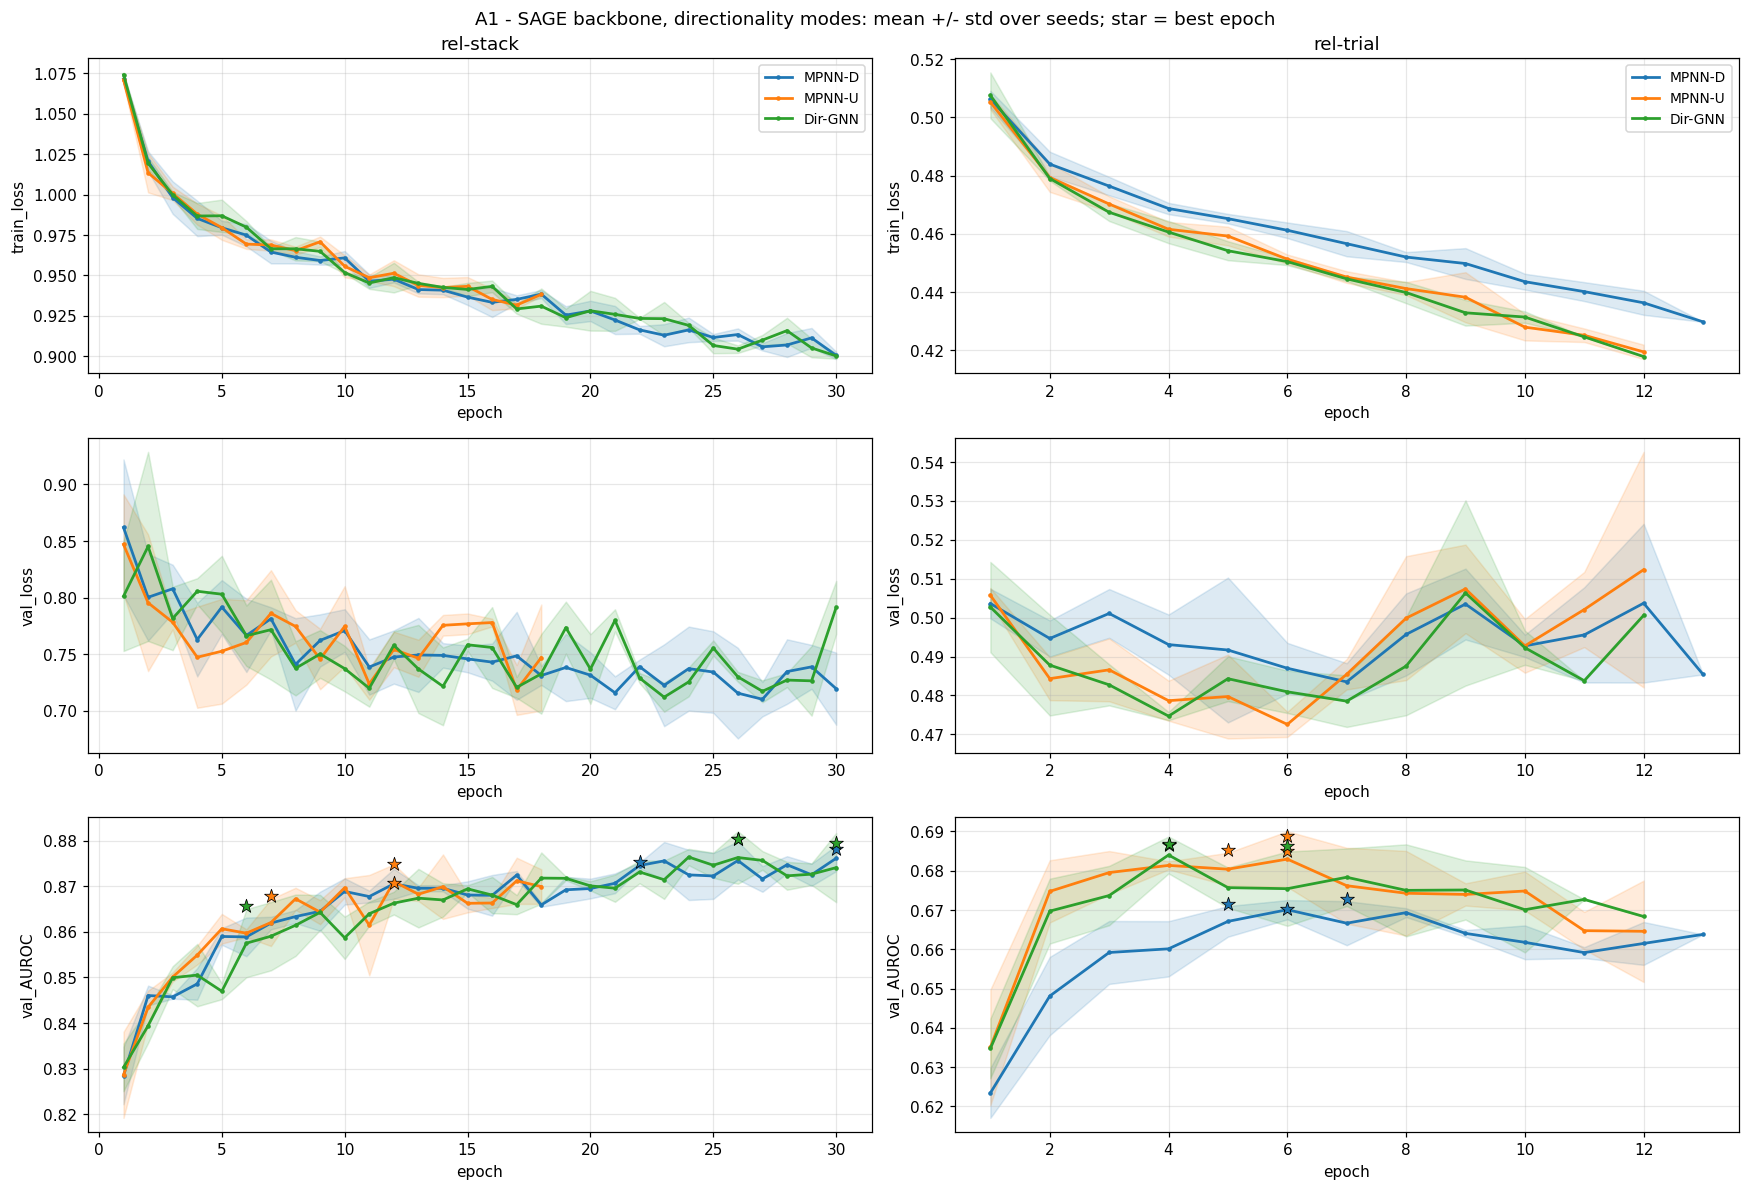
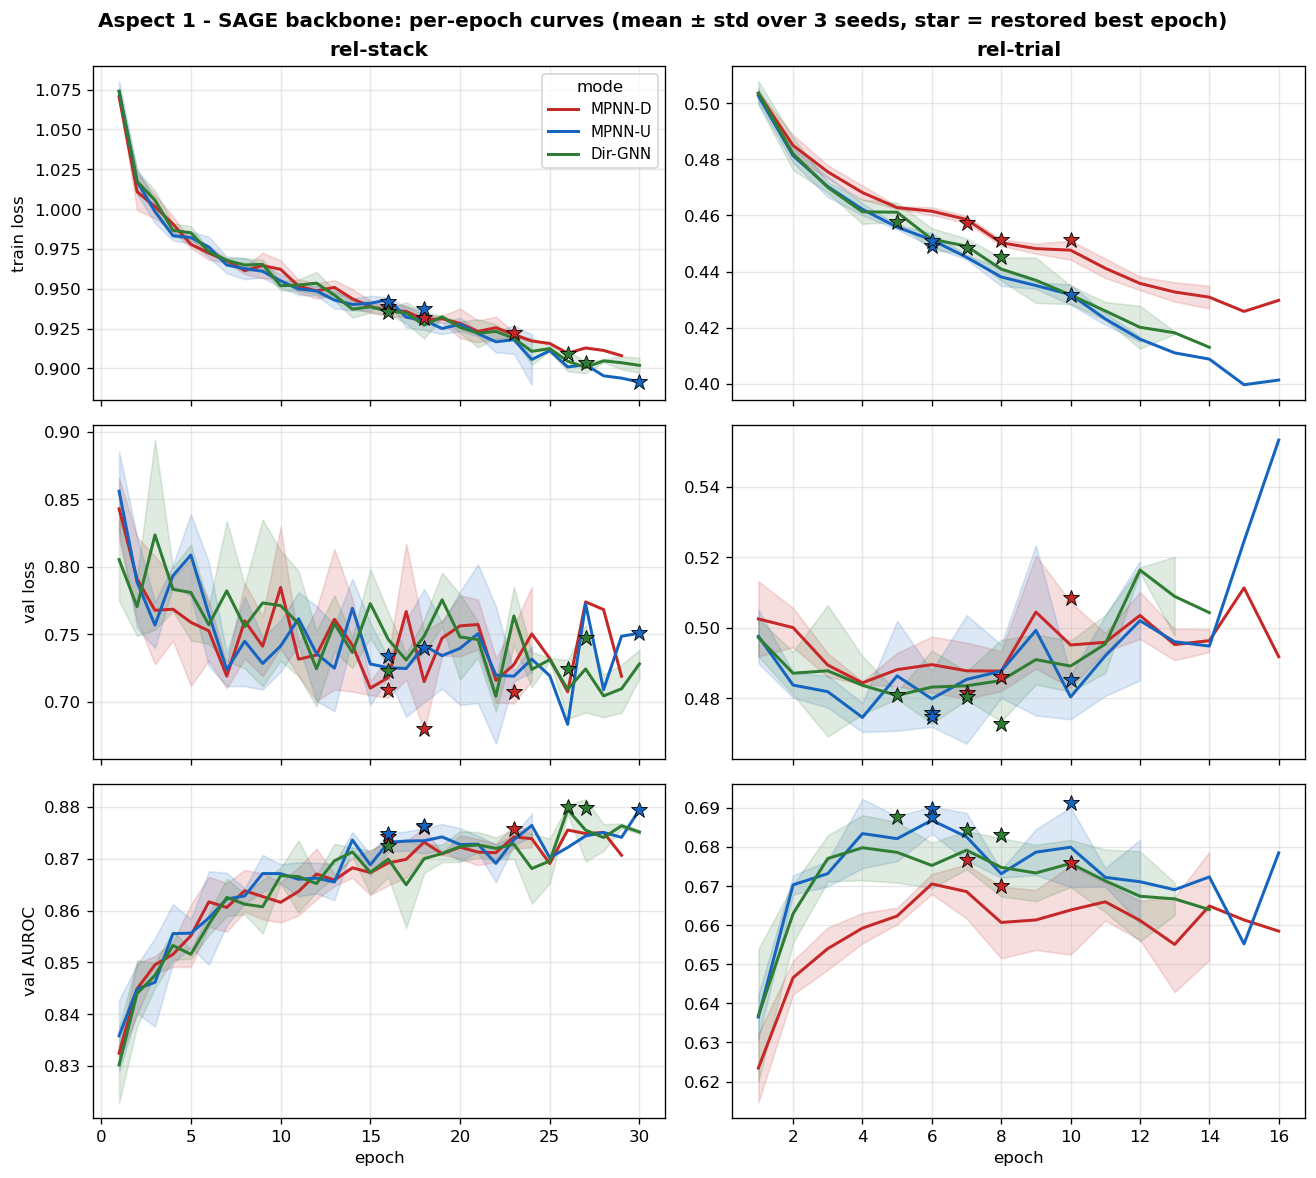
rewrote report 1 with the new results

Changed region(s): [[0.0, 0.0, 0.997, 1.0], [0.0312, 0.5806, 0.0623, 0.6112]]

diff --git a/hw3/report.md b/hw3/report.md
@@ -105,7 +105,7 @@ Picking up from Section 2's shared steps 1-2: a `NeighborLoader` samples a 2-hop
 
 ### 3.3 Comparison Design
 
-Layers, hidden size, fan-out (128 neighbors/layer/edge-type), encoders, and head are identical across all six variants; only the directionality mode and backbone change. In code, MPNN-U ties each reverse edge type's convolution to the *same module object* as its forward counterpart (`convs[e] = rel2conv[e[1][len("rev_"):]]`), so its message-passing weight count is identical to MPNN-D's by construction, not approximately similar - confirmed directly by the logged parameter counts, which match exactly between MPNN-D and MPNN-U in every one of the 12 backbone/dataset cells (e.g. rel-stack SAGE: 3,033,985 for both; rel-trial GAT: 10,266,113 for both). Dir-GNN's message-passing weights are exactly double, since every edge type gets its own, independently initialized module. At the *total* parameter level the ratio is smaller than 2x (1.13-1.56x across the four backbone/dataset combinations - see Table 1), because the shared `HeteroEncoder` contributes a fixed, mode-independent chunk of parameters that dilutes the doubling. We report all parameter counts directly rather than running a separate parameter-matched control, since Table 1 shows Dir-GNN's extra capacity never produces the outright best result on any backbone/dataset pair.
+Layers, hidden size, fan-out (128 neighbors/layer/edge-type), encoders, and head are identical across all six variants; only the directionality mode and backbone change. In code, MPNN-U ties each reverse edge type's convolution to the *same module object* as its forward counterpart (`convs[e] = rel2conv[e[1][len("rev_"):]]`), so its message-passing weight count is identical to MPNN-D's by construction - confirmed by the logged parameter counts, which match exactly between MPNN-D and MPNN-U in every backbone/dataset cell. Dir-GNN's message-passing weights are exactly double, since every edge type gets its own, independently initialized module; at the *total* parameter level the ratio is smaller (1.14-1.56x across the four backbone/dataset combinations - see Table 1), because the shared `HeteroEncoder` is a fixed, mode-independent chunk that dilutes the doubling. We report parameter counts directly rather than running a parameter-matched control, since Table 1 shows Dir-GNN's extra capacity never produces the outright best result on any backbone/dataset pair.
 
 ### 3.4 Experimental Setup
 
@@ -113,29 +113,31 @@ rel-stack and rel-trial, both under the global protocol (Section 2): 30-epoch bu
 
 ### 3.5 Results
 
+Headline metric is held-out **test** AUROC (`task.evaluate`, Section 2); the validation AUROC used for early stopping is shown alongside. Bold marks the best mode per backbone.
+
 **Table 1a - rel-stack**
 
-| backbone | mode | AUROC | AUPRC | precision | recall | params |
-|---|---|---|---|---|---|---|
-| SAGE | MPNN-D | **0.8778 ± .0025** | 0.3064 | 0.352 | 0.342 | 3.03M |
-| SAGE | MPNN-U | 0.8712 ± .0036 | 0.2826 | 0.324 | 0.347 | 3.03M |
-| SAGE | Dir-GNN | 0.8751 ± .0082 | 0.3028 | 0.327 | 0.357 | 3.76M |
-| GAT | MPNN-D | **0.8742 ± .0079** | 0.3121 | 0.342 | 0.362 | 5.22M |
-| GAT | MPNN-U | 0.8721 ± .0021 | 0.3083 | 0.333 | 0.372 | 5.22M |
-| GAT | Dir-GNN | 0.8633 ± .0050 | 0.2854 | 0.336 | 0.326 | 8.13M |
+| backbone | mode | test AUROC | test AUPRC | val AUROC | params |
+|---|---|---|---|---|---|
+| SAGE | MPNN-D | 0.8781 ± .0008 | 0.295 | 0.8754 | 3.03M |
+| SAGE | MPNN-U | **0.8803 ± .0028** | 0.295 | 0.8769 | 3.03M |
+| SAGE | Dir-GNN | 0.8788 ± .0023 | 0.294 | 0.8774 | 3.76M |
+| GAT | MPNN-D | **0.8789 ± .0028** | 0.301 | 0.8748 | 5.22M |
+| GAT | MPNN-U | 0.8644 ± .0098 | 0.270 | 0.8671 | 5.22M |
+| GAT | Dir-GNN | 0.8631 ± .0054 | 0.274 | 0.8647 | 8.13M |
 
 ---
 
 **Table 1b - rel-trial**
 
-| backbone | mode | AUROC | AUPRC | precision | recall | params |
-|---|---|---|---|---|---|---|
-| SAGE | MPNN-D | 0.6715 ± .0013 | 0.7377 | 0.605 | 0.975 | 7.29M |
-| SAGE | MPNN-U | 0.6863 ± .0020 | 0.7556 | 0.626 | 0.928 | 7.29M |
-| SAGE | Dir-GNN | **0.6866 ± .0002** | 0.7569 | 0.615 | 0.948 | 8.27M |
-| GAT | MPNN-D | 0.6467 ± .0043 | 0.7059 | 0.603 | 0.969 | 10.27M |
-| GAT | MPNN-U | 0.6642 ± .0008 | 0.7332 | 0.599 | 0.980 | 10.27M |
-| GAT | Dir-GNN | **0.6644 ± .0045** | 0.7314 | 0.621 | 0.936 | 14.23M |
+| backbone | mode | test AUROC | test AUPRC | val AUROC | params |
+|---|---|---|---|---|---|
+| SAGE | MPNN-D | **0.7025 ± .0056** | 0.763 | 0.6742 | 7.27M |
+| SAGE | MPNN-U | 0.6826 ± .0132 | 0.757 | 0.6894 | 7.27M |
+| SAGE | Dir-GNN | 0.6962 ± .0177 | 0.763 | 0.6850 | 8.26M |
+| GAT | MPNN-D | 0.6218 ± .0031 | 0.701 | 0.6463 | 10.25M |
+| GAT | MPNN-U | **0.6625 ± .0151** | 0.740 | 0.6641 | 10.25M |
+| GAT | Dir-GNN | 0.6512 ± .0204 | 0.737 | 0.6634 | 14.22M |
 
 ![Aspect 1 loss curves - SAGE](artifacts/loss_curves_A1_SAGE.png)
 *Figure 2: SAGE backbone, all three directionality modes, per-epoch train loss / validation loss / validation AUROC, mean ± std over 3 seeds, star = restored best epoch.*
@@ -145,15 +147,17 @@ rel-stack and rel-trial, both under the global protocol (Section 2): 30-epoch bu
 
 ### 3.6 Discussion
 
-**On rel-stack, all three modes are close (0.863-0.878).** MPNN-D is nominally best for both backbones, but Dir-GNN is a close second for SAGE (0.8751 vs. 0.8778) while being clearly last for GAT (0.8633). The entity table (`users`) is a parent of posts, comments, and votes, so the forward edges already pull a user's own activity into the node; reverse edges add comparatively little, which is consistent with forward-only message passing losing nothing here.
+**Initial expectations.** Before running Aspect 1 we expected two things. First, MPNN-U (bidirectional, shared weights) should be at least as good as MPNN-D (forward-only), since a shared bidirectional filter sees a strict superset of the information forward-only sees. Second, Dir-GNN should match or beat MPNN-U whenever direction carries real signal, since a foreign-key row and the primary-key row it points to play structurally different roles, and separate per-direction weights let the model exploit that asymmetry.
 
-GAT-MPNN-D's weak result on rel-trial is not just under-training: a confirmation run at 40 epochs and a 3x higher learning rate raised it only from 0.630 to about 0.648, still the worst mode, so the gap is a real optimization/architecture effect, not an artifact of budget.
+**On held-out test both expectations largely fail, and no single mode dominates - the best mode is backbone- and dataset-dependent.** The four backbone/dataset pairs disagree about which direction helps: rel-stack SAGE is a three-way tie (0.8781/0.8803/0.8788, all within 0.002); rel-stack GAT prefers forward-only (MPNN-D 0.8789, bidirectional ~0.015 lower); rel-trial GAT prefers bidirectional (MPNN-U 0.6625 vs. MPNN-D 0.6218, a 0.04 gap); and rel-trial SAGE nominally prefers forward-only (MPNN-D 0.7025). So expectation one (MPNN-U ≥ MPNN-D) holds only for rel-trial GAT and the rel-stack SAGE tie, and is violated for rel-stack GAT and rel-trial SAGE. Expectation two fails outright: **Dir-GNN is never the best mode on any of the four pairs**, despite carrying 1.14-1.56x the parameters of MPNN-D/U.
 
-**On rel-trial, the story flips: MPNN-D is clearly the worst mode for both backbones**, by 0.015 AUROC for SAGE (0.6715 vs. 0.6863-0.6866) and 0.018-0.020 for GAT (0.6467 vs. 0.6642-0.6644). The entity table (`studies`) reaches conditions, sponsors, and interventions only through junction tables, so relevant signal sits reachable only via reverse edges; cutting them off hurts regardless of aggregation mechanism, though the effect is larger in absolute terms for GAT (both because GAT's starting point is lower and because attention over a thinner, one-directional neighborhood has less to work with than mean-aggregation does).
+**GAT is far more directionality-sensitive than SAGE, and its preference tracks the schema.** GAT's spread across modes reaches 0.015 on rel-stack and 0.041 on rel-trial, and it flips which direction it wants between datasets. On rel-stack the entity table (`users`) is a *parent* of posts, comments, and votes, so forward edges already pull a user's own activity into the node and forward-only is best; on rel-trial the entity table (`studies`) reaches conditions, sponsors, and interventions only through junction tables, so that signal is reachable only via reverse edges and bidirectional wins clearly. The loss curves (Figure 3) show GAT-MPNN-D on rel-trial is also the slowest to optimize - its train loss stays highest and its validation AUROC plateaus well below the bidirectional modes - so its last-place finish there is a genuine architecture/optimization effect, not a budget artifact. SAGE, by contrast, is comparatively insensitive: its mean-aggregation keeps all three modes within ~0.02 on both datasets, with forward-only best-or-tied throughout.
 
-**Why does Dir-GNN not win outright despite having up to 1.56x the parameters of MPNN-D/U?** Its message-passing weights are exactly double by construction (a fresh, independently initialized convolution per direction instead of one shared module), but this project's four aspects consistently show that more message-passing capacity does not automatically buy better generalization on these tasks. Dir-GNN's best showing is a statistical tie with MPNN-U on rel-trial for both backbones (SAGE: 0.6866 vs. 0.6863; GAT: 0.6644 vs. 0.6642, both differences well inside one standard deviation), never an outright win - a genuinely separate mechanism (a second copy of the same message, not a new signal) appears to add little beyond what shared bidirectional weights already extract.
+**A caveat: validation and test disagree on rel-trial SAGE.** On the validation split used for early stopping (Figure 2, and the val AUROC column), MPNN-D SAGE ranks *worst* on rel-trial (0.6742 vs. 0.6894/0.6850) - the opposite of its test ranking (best, 0.7025). rel-trial's held-out test split is the smallest in the study (825 seeds), so its per-mode standard deviations are the largest here (±0.013-0.018), and this SAGE ordering is best read as "directionality has little reliable effect for SAGE on rel-trial" rather than a firm forward-only win. GAT, whose validation and test agree cleanly on both datasets, gives the more trustworthy directionality signal - and there the schema story above holds without qualification.
 
-**Takeaway.** MPNN-U (bidirectional, shared weights) is the safest default: never far from the best mode in either backbone/dataset combination, and it avoids MPNN-D's clear failure mode on rel-trial without paying Dir-GNN's parameter cost.
+**Why does Dir-GNN never win despite its extra parameters?** Its message-passing weights are exactly double MPNN-D/U's by construction (a fresh, independently initialized convolution per direction), but a second independent copy of the message adds nothing beyond what shared bidirectional weights (MPNN-U) or forward-only passing already extract - it lands in the middle of the pack on every pair. This matches the pattern across the whole study: more message-passing capacity does not buy better generalization on these tasks.
+
+**Takeaway.** There is no universally-best directionality mode; the choice interacts with the backbone and the dataset's schema. For attention-based GAT it is worth matching direction to the schema (forward-only where the entity table is a parent, bidirectional where its signal sits across junction tables); mean-aggregating SAGE is robust to the choice. Dir-GNN's separate-per-direction weights are not worth their parameter cost on any pair tested.
 
 ---
 